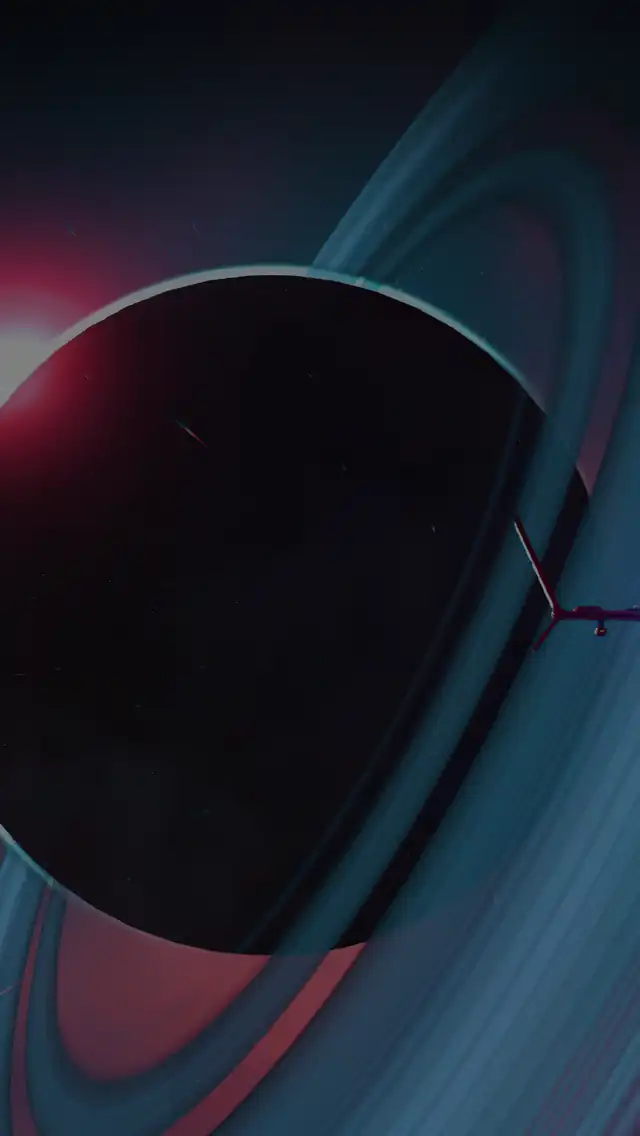
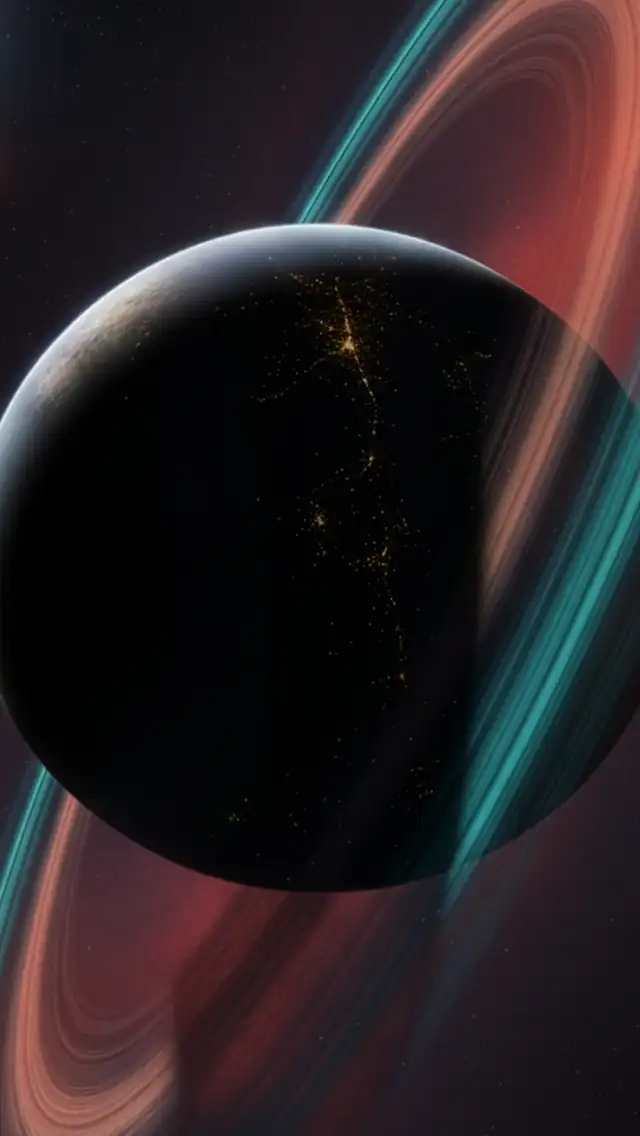
feat(ui): Update application background image and layout
Replaced the previous background image with a new design, introducing a refreshed visual for the application.

New optimized WebP assets are now provided for standard, high-resolution (@2x), and mobile displays.

Adjusted AppFooter component styling (padding, margins) to ensure proper layout and integration with the new background. The MainAppContent component also received layout adjustments.

The old background source PNG was moved to `source_images/background_old.png`, and the new raw asset `source_images/raw_assets/new_background.png` was added. Minor updates were made to `vite.config.ts` likely related to asset handling.

diff --git a/src/components/MainAppContent/MainAppContent.tsx b/src/components/MainAppContent/MainAppContent.tsx
@@ -7,7 +7,6 @@ import { useTranslation } from "react-i18next";
 import { ConditionalTooltip } from "@/components/ConditionalTooltip";
 import LanguageSelector from "@/components/LanguageSelector/LanguageSelector";
 import { useAnalytics } from "@/hooks/useAnalytics/useAnalytics";
-import { useBreakpoint } from "@/hooks/useBreakpoint/useBreakpoint";
 import { useA11yStore } from "@/store/A11yStore";
 
 import { useDialog } from "../../context/dialog-utils";
@@ -48,7 +47,6 @@ export const MainAppContent: FC<MainAppContentProps> = ({ buildVersion, buildDat
 	const isSharedGrid = useGridStore((state) => state.isSharedGrid);
 	const { openDialog } = useDialog();
 	const { sendEvent } = useAnalytics();
-	const isLg = useBreakpoint("1024px");
 	const { a11yMode, toggleA11yMode } = useA11yStore();
 	const selectedShipType = usePlatformStore((state) => state.selectedPlatform);
 	const {
@@ -213,21 +211,10 @@ export const MainAppContent: FC<MainAppContentProps> = ({ buildVersion, buildDat
 								</Suspense>
 							</aside>
 						)}
-
-						{/* {!isLg && (
-							<Separator
-								color="cyan"
-								size="4"
-								mt="4"
-								mb="4"
-								orientation="horizontal"
-							/>
-						)} */}
 					</section>
 				</div>
 
-				{!isLg && <AppFooter buildVersion={buildVersion} buildDate={buildDate} />}
-				{isLg && <AppFooter buildVersion={buildVersion} buildDate={buildDate} />}
+				<AppFooter buildVersion={buildVersion} buildDate={buildDate} />
 
 				{/* Dialogs related to MainAppContent's state */}
 				<Suspense fallback={null}>

diff --git a/src/components/AppFooter/AppFooter.tsx b/src/components/AppFooter/AppFooter.tsx
@@ -29,7 +29,7 @@ const AppFooter: React.FC<AppFooterProps> = ({ buildVersion, buildDate }) => {
 	return (
 		<footer
 			key={i18n.language}
-			className="flex w-full flex-col items-center justify-center gap-1 bg-(--color-panel-solid) px-3 py-6 text-center text-xs font-light sm:text-sm md:w-fit md:bg-transparent md:px-0 md:py-4 lg:px-0 lg:py-4"
+			className="flex w-full flex-col items-center justify-center gap-1 bg-(--color-panel-solid) px-3 py-6 text-center text-xs font-light sm:text-sm md:w-fit md:bg-transparent md:p-4 md:px-0 lg:px-0 lg:pt-4 lg:pb-0"
 		>
 			<div className="max-w-full wrap-break-word">
 				<Trans

diff --git a/vite.config.ts b/vite.config.ts
@@ -222,8 +222,8 @@ export default defineConfig(({ mode }) => {
 			minify: "terser",
 			terserOptions: {
 				compress: {
-					drop_console: true,
-					drop_debugger: true,
+					// drop_console: true,
+					// drop_debugger: true,
 				},
 			},
 			cssCodeSplit: true,
